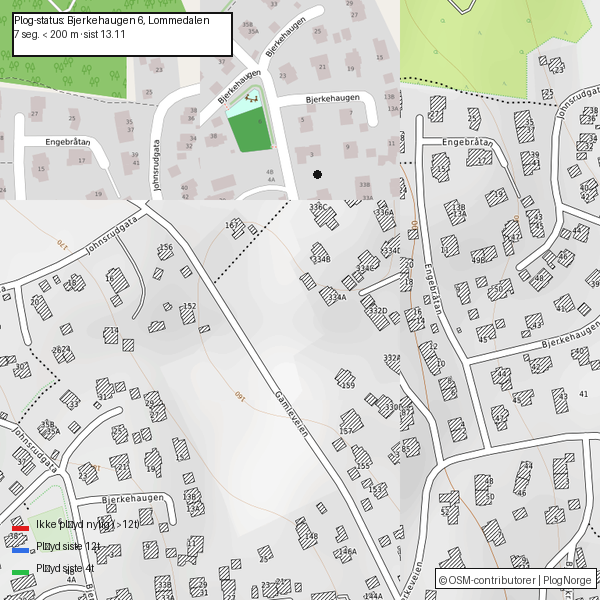
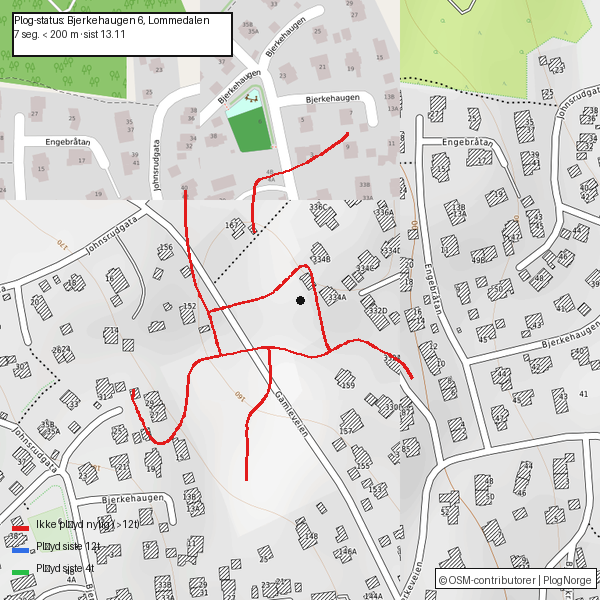
Fix coordinate system: local pixels centered on target

diff --git a/render_map.py b/render_map.py
@@ -25,15 +25,25 @@ def lonlat_to_mercator_m(lng, lat):
     y = math.log(math.tan(math.pi/4 + math.radians(lat)/2)) * 6378137.0
     return x, y
 
-def mercator_to_pixel(mx, my, raw_w, raw_h):
-    """Convert mercator meters to pixel position in raw grid."""
+def mercator_to_pixel(mx, my, img_w, img_h):
+    """Convert mercator meters to LOCAL pixel position centered on TARGET."""
+    # Calculate scale: pixels per meter based on target area coverage
+    # At ZOOM level, 3 tiles cover approximately this many meters
     n = 2 ** ZOOM
     world = 2 * math.pi * 6378137.0
-    # World extent in pixels at this zoom
-    px_x = (mx + world/2) / world * raw_w
-    # Invert Y (mercator y increases northward, image y increases downward)
-    py_y = (world/2 - my) / world * raw_h
-    return int(px_x), int(py_y)
+    tile_m = world / n
+    # 3x3 tile grid covers roughly this ground distance
+    ground_span_m = 3 * tile_m / math.cos(math.radians(TARGET["lat"]))
+    px_per_m = img_w / ground_span_m
+    
+    # Convert to local coordinates relative to target
+    t_mx, t_my = lonlat_to_mercator_m(TARGET["lng"], TARGET["lat"])
+    dx = mx - t_mx
+    dy = my - t_my
+    # Image center is at (img_w/2, img_h/2)
+    px_x = int(img_w/2 + dx * px_per_m)
+    py_y = int(img_h/2 - dy * px_per_m)  # invert Y
+    return px_x, py_y
 
 def haversine_m(lat1, lng1, lat2, lng2):
     R=6371000.0; p1,p2=math.radians(lat1),math.radians(lat2)
